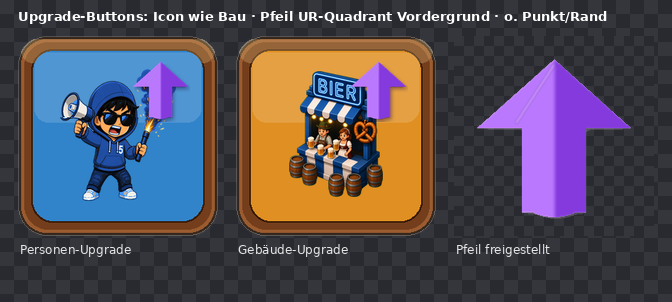
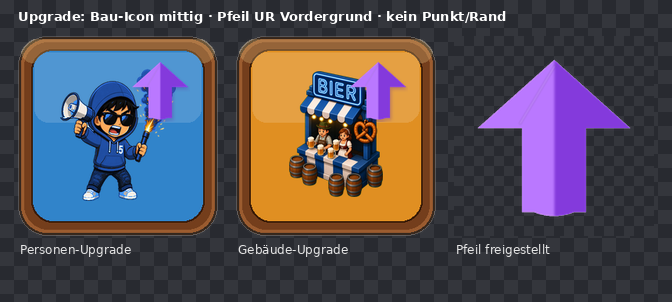
Clean upgrade arrow: no tip dot, purple AA edge only
Remove residual dark rim from shadow/outline. Keep Bau icons centered
with the arrow in the upper-right quadrant foreground.

diff --git a/scripts/ui-final/make-square-icon-btns.py b/scripts/ui-final/make-square-icon-btns.py
@@ -174,36 +174,16 @@ PURPLE_R = (132, 58, 220, 255)
 
 def make_upgrade_arrow(size: int = SIZE) -> Image.Image:
     """Freigestellter Upgrade-Pfeil: ohne Spitzenpunkt, ohne dunklen Rand."""
-    canvas = Image.new("RGBA", (size, size), (0, 0, 0, 0))
-    cx = size / 2
-    top = size * 0.12
-    bot = size * 0.88
-    head_bot = size * 0.46
-    head_half = size * 0.38
-    shaft_half = size * 0.16
+    # 2× then downscale → purple AA edge (no black outline)
+    S = size * 2
+    cx = S / 2
+    top = S * 0.12
+    bot = S * 0.88
+    head_bot = S * 0.46
+    head_half = S * 0.38
+    shaft_half = S * 0.16
     tip_x, tip_y = cx, top
     r = shaft_half
-
-    shadow = Image.new("RGBA", (size, size), (0, 0, 0, 0))
-    sd = ImageDraw.Draw(shadow)
-    pts_s = [
-        (tip_x + 2, tip_y + 5),
-        (cx - head_half + 2, head_bot + 5),
-        (cx - shaft_half + 2, head_bot + 5),
-        (cx - shaft_half + 2, bot + 5),
-        (cx + shaft_half + 2, bot + 5),
-        (cx + shaft_half + 2, head_bot + 5),
-        (cx + head_half + 2, head_bot + 5),
-    ]
-    sd.polygon(pts_s, fill=(40, 10, 60, 85))
-    sd.ellipse(
-        (cx - r + 2, bot - r + 5, cx + r + 2, bot + r * 0.15 + 5),
-        fill=(40, 10, 60, 85),
-    )
-    canvas.alpha_composite(shadow.filter(ImageFilter.GaussianBlur(3.2)))
-
-    body = Image.new("RGBA", (size, size), (0, 0, 0, 0))
-    bd = ImageDraw.Draw(body)
     pts = [
         (tip_x, tip_y),
         (cx - head_half, head_bot),
@@ -213,32 +193,43 @@ def make_upgrade_arrow(size: int = SIZE) -> Image.Image:
         (cx + shaft_half, head_bot),
         (cx + head_half, head_bot),
     ]
-    bd.polygon(pts, fill=PURPLE_R)
-    bd.ellipse((cx - r, bot - r, cx + r, bot + r * 0.15), fill=PURPLE_R)
 
-    left = Image.new("RGBA", (size, size), (0, 0, 0, 0))
+    body = Image.new("RGBA", (S, S), (0, 0, 0, 0))
+    bd = ImageDraw.Draw(body)
+    bd.polygon(pts, fill=PURPLE_R)
+    bd.ellipse((cx - r, bot - r, cx + r, bot + r * 0.12), fill=PURPLE_R)
+
+    left = Image.new("RGBA", (S, S), (0, 0, 0, 0))
     ld = ImageDraw.Draw(left)
     ld.polygon(pts, fill=PURPLE_L)
-    ld.ellipse((cx - r, bot - r, cx + r, bot + r * 0.15), fill=PURPLE_L)
-    mask = Image.new("L", (size, size), 0)
-    ImageDraw.Draw(mask).rectangle((0, 0, int(cx), size), fill=255)
-    mask = mask.filter(ImageFilter.GaussianBlur(2))
+    ld.ellipse((cx - r, bot - r, cx + r, bot + r * 0.12), fill=PURPLE_L)
+    mask = Image.new("L", (S, S), 0)
+    ImageDraw.Draw(mask).rectangle((0, 0, int(cx), S), fill=255)
+    mask = mask.filter(ImageFilter.GaussianBlur(3))
     body = Image.composite(left, body, mask)
 
-    hi = Image.new("RGBA", (size, size), (0, 0, 0, 0))
+    hi = Image.new("RGBA", (S, S), (0, 0, 0, 0))
     hd = ImageDraw.Draw(hi)
     hd.line(
-        [(tip_x, tip_y + 6), (cx - head_half * 0.5, head_bot - 6)],
-        fill=(255, 230, 255, 65),
-        width=3,
+        [(tip_x + 2, tip_y + 14), (cx - head_half * 0.45, head_bot - 10)],
+        fill=(220, 190, 255, 55),
+        width=5,
     )
-    body = Image.alpha_composite(body, hi.filter(ImageFilter.GaussianBlur(1.2)))
-    canvas.alpha_composite(body)
+    body = Image.alpha_composite(body, hi.filter(ImageFilter.GaussianBlur(2)))
+    body = body.resize((size, size), Image.Resampling.LANCZOS)
 
-    arr = np.array(canvas)
-    dark = (arr[:, :, :3].max(axis=2) < 50) & (arr[:, :, 3] > 0)
+    arr = np.array(body).astype(np.float32)
+    rgb = arr[:, :, :3]
+    a = arr[:, :, 3]
+    dark = (rgb.max(axis=2) < 90) & (a > 0)
     arr[dark, 3] = 0
-    return Image.fromarray(arr, "RGBA")
+    edge = (a > 5) & (a < 200)
+    mid = np.array([158, 88, 238], dtype=np.float32)
+    for c in range(3):
+        arr[:, :, c] = np.where(edge, mid[c] * 0.65 + rgb[:, :, c] * 0.35, arr[:, :, c])
+    dark2 = (arr[:, :, :3].max(axis=2) < 100) & (arr[:, :, 3] > 0)
+    arr[dark2, 3] = 0
+    return Image.fromarray(arr.clip(0, 255).astype(np.uint8), "RGBA")
 
 
 def paste_arrow_upper_right(
@@ -268,10 +259,11 @@ def paste_arrow_upper_right(
     ox = qcx - nw // 2
     oy = qcy - nh // 2 - int(qh * 0.03)
 
+    # Soft purple-tinted shadow only (no black rim)
     a = resized.split()[-1]
-    sh = Image.new("RGBA", resized.size, (30, 10, 50, 0))
-    sh.putalpha(a.point(lambda v: int(v * 0.4)))
-    out.alpha_composite(sh.filter(ImageFilter.GaussianBlur(2.2)), (ox + 2, oy + 3))
+    sh = Image.new("RGBA", resized.size, (90, 40, 150, 0))
+    sh.putalpha(a.point(lambda v: int(v * 0.28)))
+    out.alpha_composite(sh.filter(ImageFilter.GaussianBlur(2.0)), (ox + 2, oy + 3))
     out.alpha_composite(resized, (ox, oy))
     return out
 
